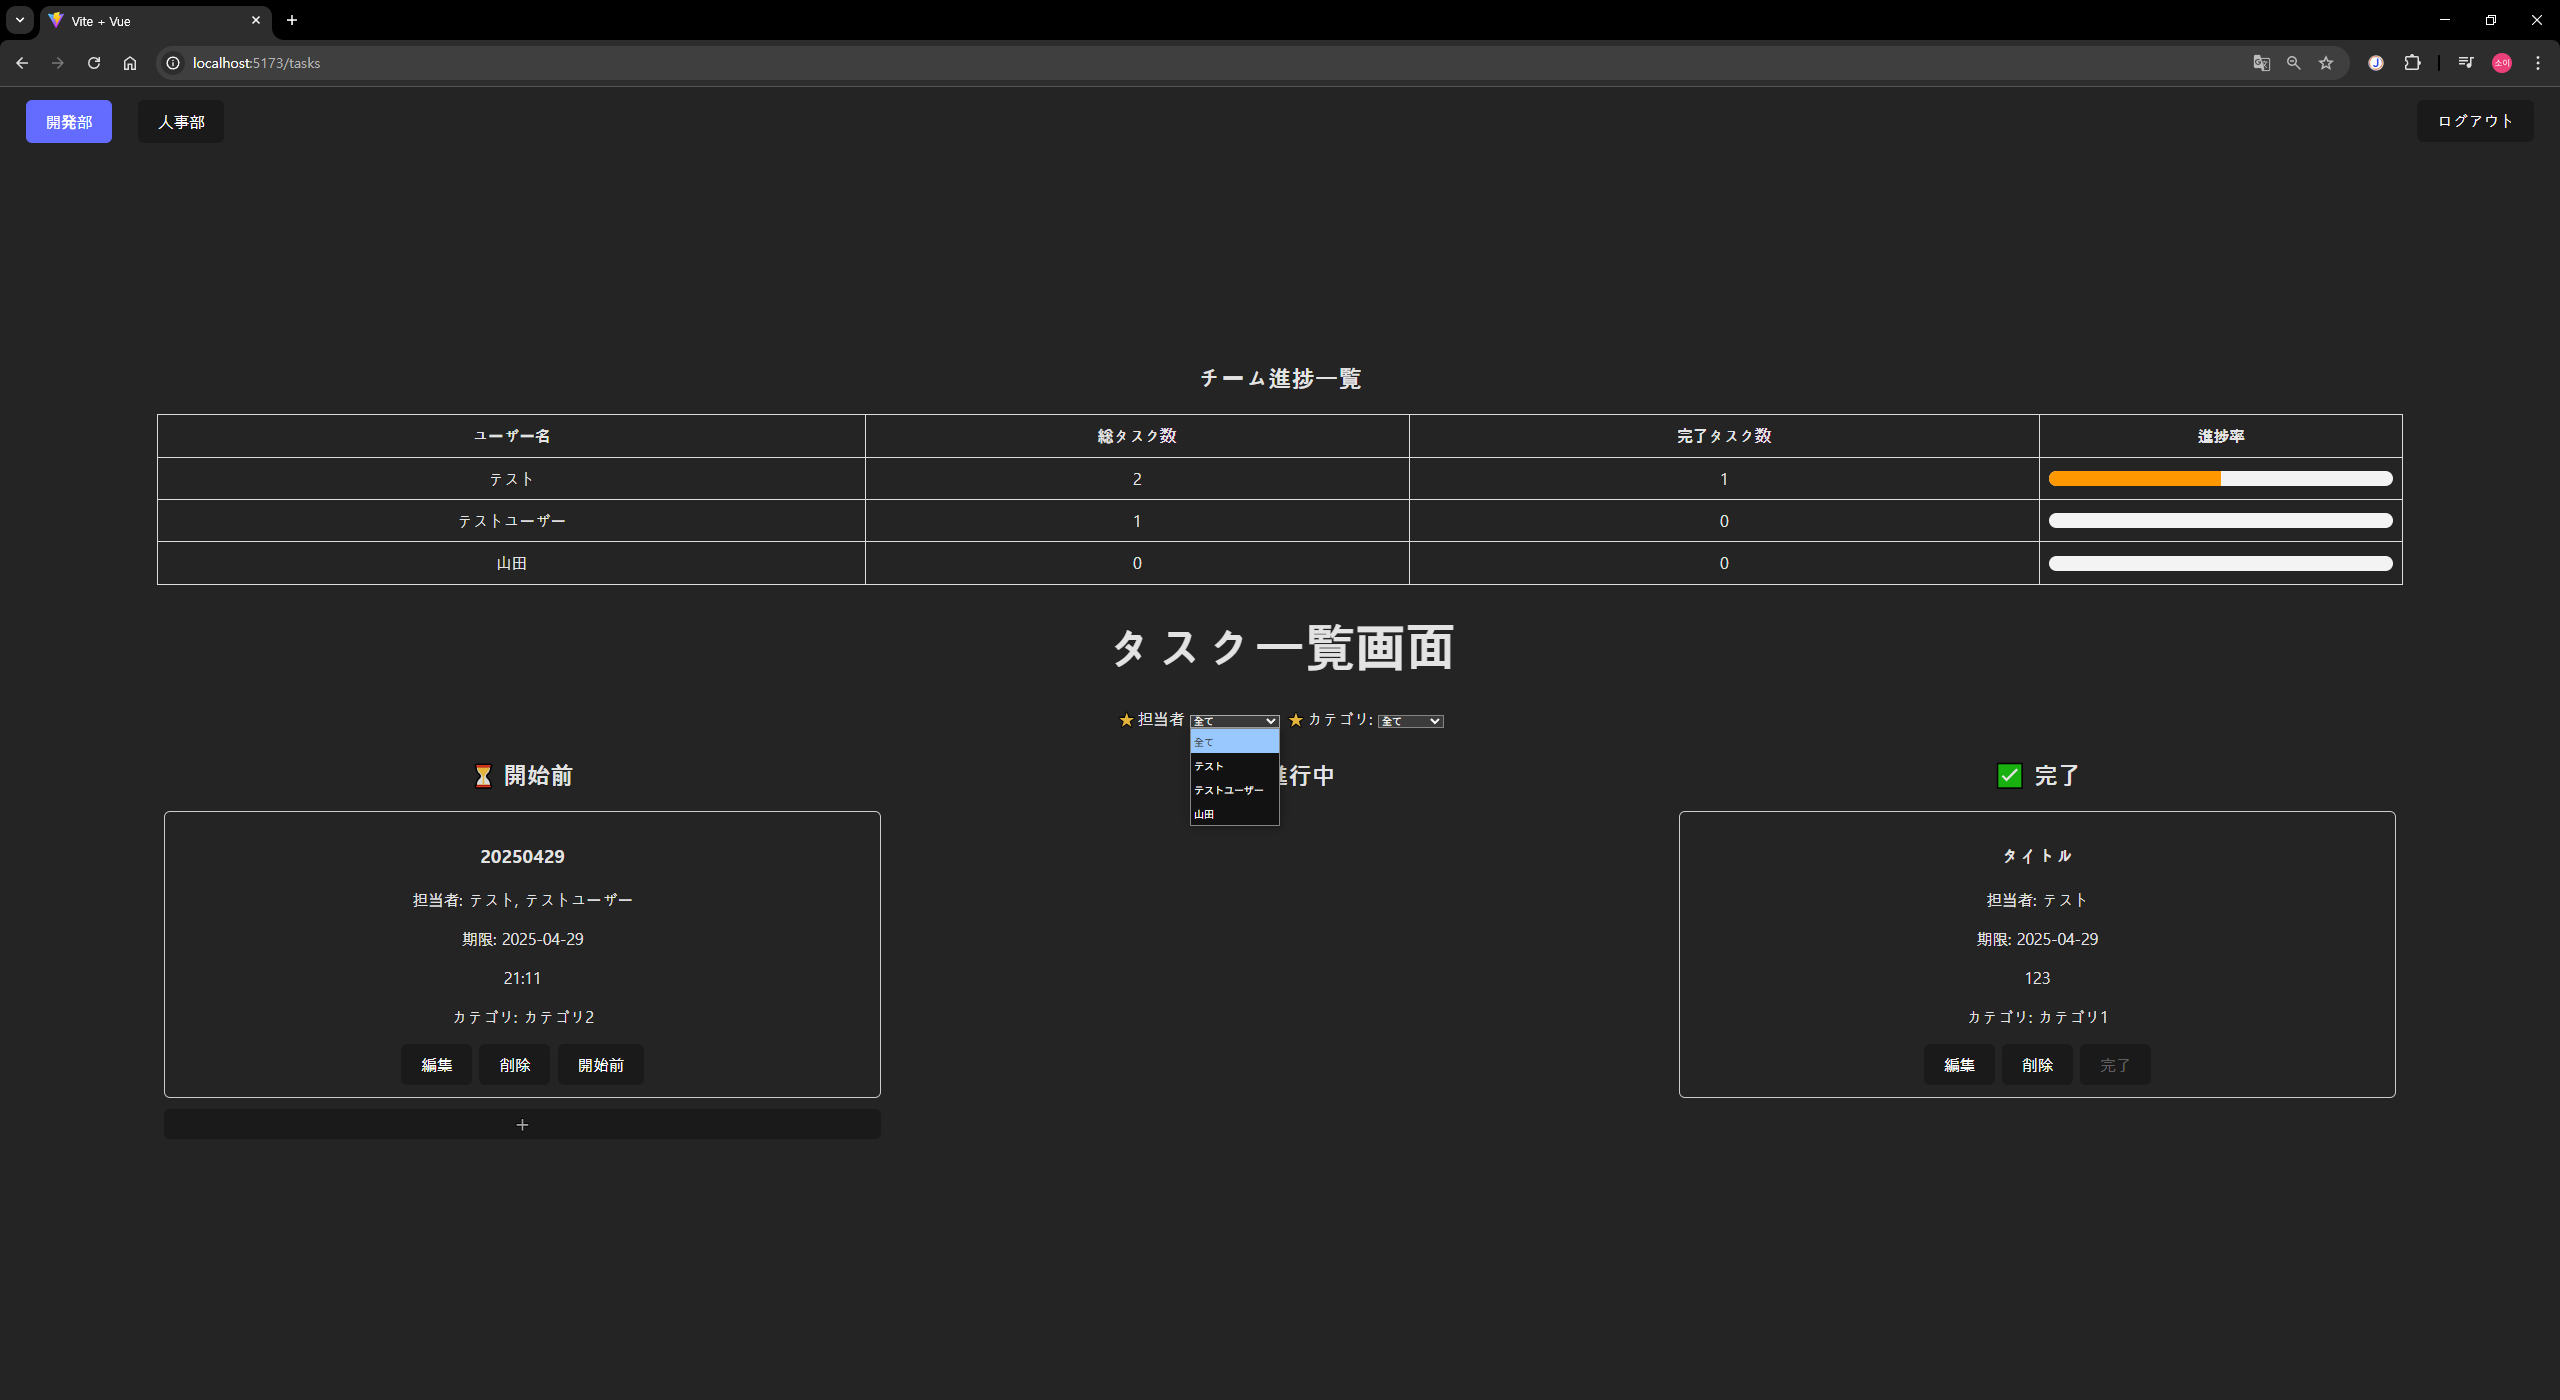
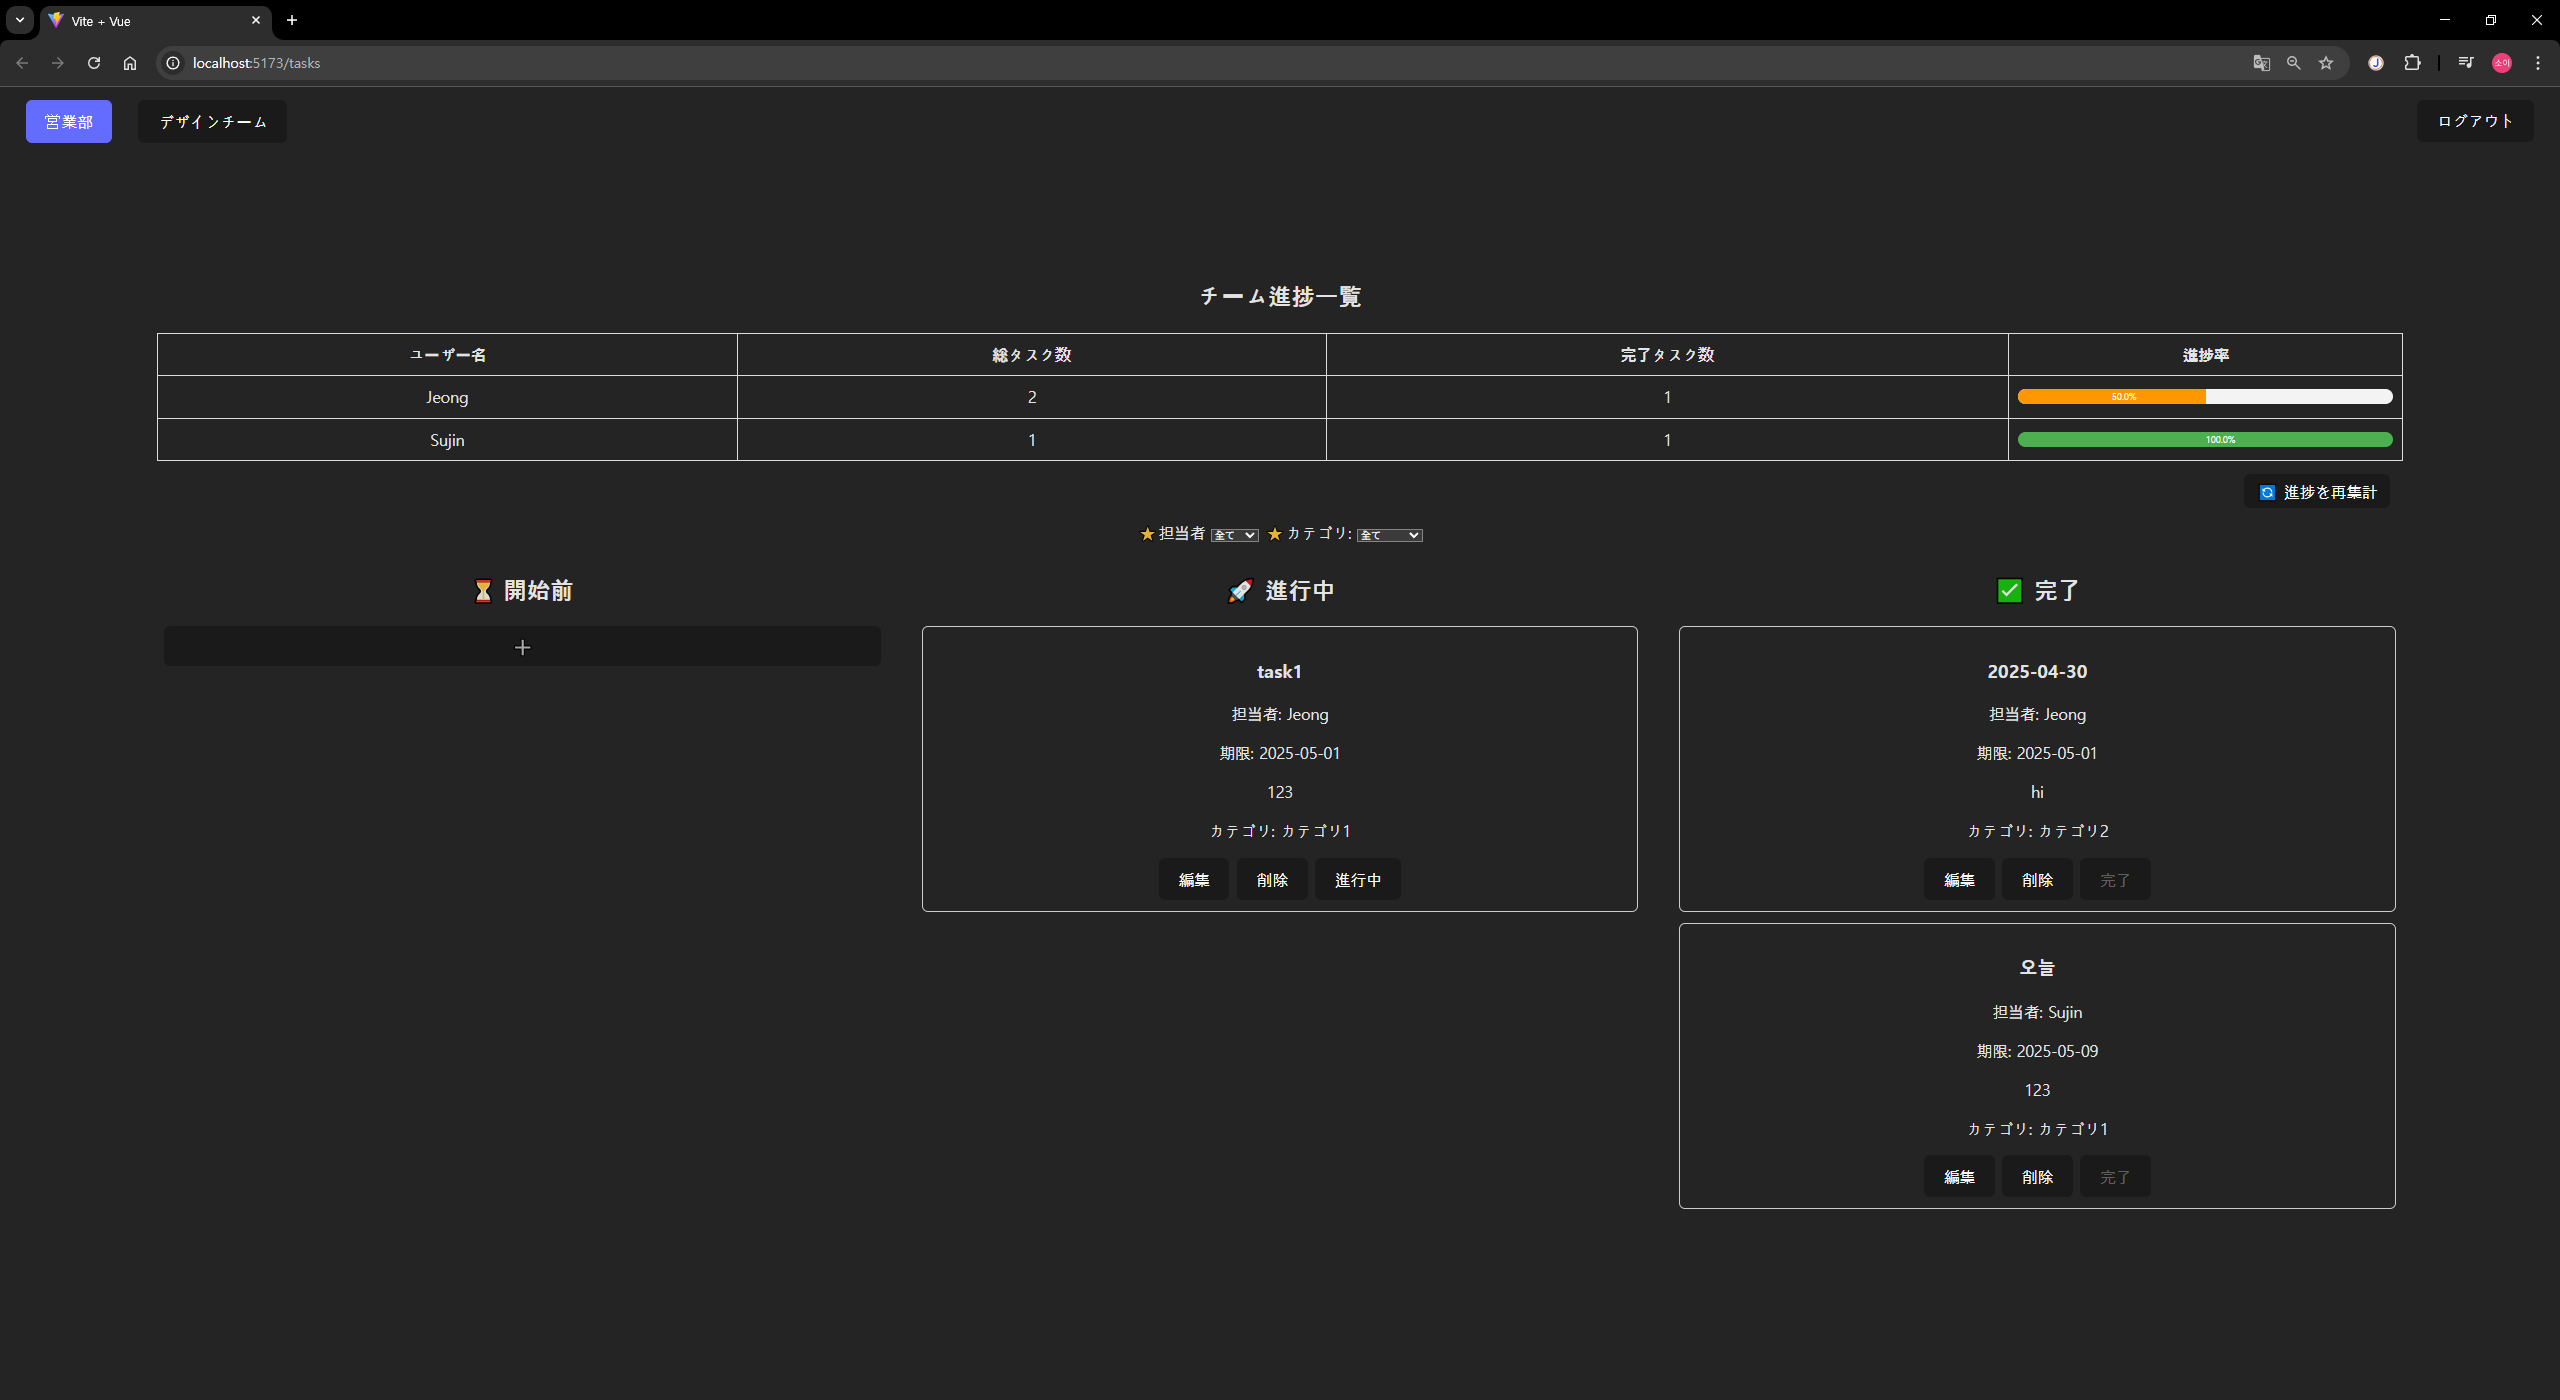
📝 docs: タスク一覧画面仕様書に進捗率表示テーブルとRakeタスク再集計ボタンを追加

diff --git a/docs/screen_spec.md b/docs/screen_spec.md
@@ -42,3 +42,6 @@
 | 11 | 削除ボタン | 削除 | 出力 | button |  |  | クリック時、削除確認モーダル表示 |
 | 12 | ステータス変更ボタン | 開始前→進行中→完了 | 出力 | button |  |  | クリックでステータス遷移 |
 | 13 | ログアウトボタン | ログアウト | 出力 | button |  |  | クリック時、localStorageのtokenとuser情報を削除し、/loginに遷移 |
+| 14 | チーム進捗表 | チーム進捗一覧 | 出力 | table | task_progresses |  | ユーザーごとに進捗率を可視化 |
+| 15 | 進捗率バー | 進捗率 | 出力  | bar |  |  | (完了タスク数/総タスク数)*100 |
+| 16 | 進捗率再集計ボタン | 進捗を再集計 | 出力  | button |  |  | Rakeタスク起動（API経由） |
